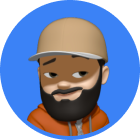
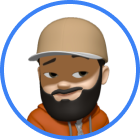
Ajustes Header

diff --git a/app/components/Header.tsx b/app/components/Header.tsx
@@ -1,6 +1,6 @@
 "use client";
 
-import { useState } from "react";
+import { useState, useEffect, useRef } from "react";
 import {
   Dialog,
   DialogPanel,
@@ -19,66 +19,88 @@ import {
   FingerPrintIcon,
   SquaresPlusIcon,
   XMarkIcon,
+  RectangleGroupIcon,
 } from "@heroicons/react/24/outline";
 import {
   ChevronDownIcon,
   PhoneIcon,
   PlayCircleIcon,
-  RectangleGroupIcon,
 } from "@heroicons/react/20/solid";
+import { Construction, Figma } from "lucide-react";
 
 const products = [
   {
-    name: "Analytics",
-    description: "Get a better understanding where your traffic is coming from",
+    name: "Templates",
+    description: "Landing Pages e Dashboards de alta qualidade para seu SAAS.",
     href: "#",
-    icon: ChartPieIcon,
+    icon: RectangleGroupIcon,
   },
   {
-    name: "Engagement",
-    description: "Speak directly to your customers with our engagement tool",
+    name: "UI Designs",
+    description: "Arquivos de design prontos para usar no seu próximo projeto",
     href: "#",
-    icon: CursorArrowRaysIcon,
+    icon: Figma,
   },
   {
-    name: "Security",
-    description: "Your customers’ data will be safe and secure",
+    name: "Icons",
+    description: "Em Breve",
     href: "#",
-    icon: FingerPrintIcon,
+    icon: Construction,
   },
-  {
-    name: "Integrations",
-    description: "Your customers’ data will be safe and secure",
-    href: "#",
-    icon: SquaresPlusIcon,
-  },
-];
-const callsToAction = [
-  { name: "Watch demo", href: "#", icon: PlayCircleIcon },
-  { name: "Contact sales", href: "#", icon: PhoneIcon },
-  { name: "View all products", href: "#", icon: RectangleGroupIcon },
 ];
 
 export default function Header() {
   const [mobileMenuOpen, setMobileMenuOpen] = useState(false);
+  const [isStoreOpen, setIsStoreOpen] = useState(false);
+  const storeMenuRef = useRef(null);
+
+  useEffect(() => {
+    const handleScroll = () => {
+      if (isStoreOpen) {
+        setIsStoreOpen(false);
+      }
+    };
+
+    const handleClickOutside = (event) => {
+      if (
+        storeMenuRef.current &&
+        !storeMenuRef.current.contains(event.target)
+      ) {
+        setIsStoreOpen(false);
+      }
+    };
+
+    window.addEventListener("scroll", handleScroll);
+    document.addEventListener("mousedown", handleClickOutside);
+
+    return () => {
+      window.removeEventListener("scroll", handleScroll);
+      document.removeEventListener("mousedown", handleClickOutside);
+    };
+  }, [isStoreOpen]);
 
   return (
-    <header className="fixed w-full bg-white border-b border-zinc-100 z-50">
+    <header className="fixed w-full bg-white border-b dark:bg-neutral-900 border-zinc-100 dark:border-zinc-800 z-50 ">
       <nav
         aria-label="Global"
         className="mx-auto flex max-w-7xl items-center justify-between p-6 lg:px-8"
       >
-        <div className="flex lg:flex-1">
+        <div className="flex lg:flex-1 items-center gap-2">
           <a href="/" className="-m-1.5 p-1.5">
-            <span className="sr-only">Luciano Silva</span>
-            <img alt="" src="/images/avatar-2.png" className="h-10 w-auto" />
+            <div className="flex items-center gap-2">
+              <span className="sr-only">Luciano Silva</span>
+              <img alt="" src="/images/avatar-2.png" className="h-10 w-auto" />
+              <span className="font-semibold dark:text-slate-200">
+                LUCIANO SILVA
+              </span>
+            </div>
           </a>
         </div>
         <div className="flex lg:hidden">
           <button
             type="button"
             onClick={() => setMobileMenuOpen(true)}
-            className="-m-2.5 inline-flex items-center justify-center rounded-md p-2.5 text-gray-700"
+            className="-m-2.5 inline-flex items-center justify-center rounded-md p-2.5 text-gray-700 dark:text-slate-200"
           >
             <span className="sr-only">Open main menu</span>
             <Bars3Icon aria-hidden="true" className="h-6 w-6" />
@@ -86,7 +108,10 @@ export default function Header() {
         </div>
         <PopoverGroup className="hidden lg:flex lg:gap-x-12">
           <Popover>
-            <PopoverButton className="flex items-center gap-x-1 text-sm font-semibold leading-6 text-gray-900">
+            <PopoverButton
+              className="flex items-center gap-x-1 text-sm font-semibold leading-6 text-gray-900 dark:text-slate-200"
+              onClick={() => setIsStoreOpen(!isStoreOpen)}
+            >
               Loja
               <ChevronDownIcon
                 aria-hidden="true"
@@ -95,63 +120,51 @@ export default function Header() {
             </PopoverButton>
 
             <PopoverPanel
-              transition
-              className="absolute inset-x-0 top-0 -z-10 bg-white pt-14 shadow-lg ring-1 ring-gray-900/5 transition data-[closed]:-translate-y-1 data-[closed]:opacity-0 data-[enter]:duration-200 data-[leave]:duration-150 data-[enter]:ease-out data-[leave]:ease-in"
+              ref={storeMenuRef}
+              static
+              className={`absolute inset-x-0 top-0 -z-10 bg-white dark:bg-neutral-900 pt-14 shadow-lg ring-1 ring-gray-900/5 transition ${
+                isStoreOpen
+                  ? "translate-y-0 opacity-100"
+                  : "-translate-y-1 opacity-0 pointer-events-none"
+              } duration-200 ease-out`}
             >
               <div className="mx-auto grid max-w-7xl grid-cols-4 gap-x-4 px-6 py-10 lg:px-8 xl:gap-x-8">
                 {products.map((item) => (
                   <div
                     key={item.name}
-                    className="group relative rounded-lg p-6 text-sm leading-6 hover:bg-gray-50"
+                    className="group relative rounded-lg p-6 text-sm leading-6 hover:bg-gray-50 dark:hover:bg-neutral-950"
                   >
-                    <div className="flex h-11 w-11 items-center justify-center rounded-lg bg-gray-50 group-hover:bg-white">
+                    <div className="flex h-11 w-11 items-center justify-center rounded-lg bg-gray-50 dark:bg-neutral-950 group-hover:bg-white dark:group-hover:bg-neutral-900">
                       <item.icon
                         aria-hidden="true"
-                        className="h-6 w-6 text-gray-600 group-hover:text-indigo-600"
+                        className="h-6 w-6 text-gray-600 dark:text-slate-200 group-hover:text-blue-500"
                       />
                     </div>
                     <a
                       href={item.href}
-                      className="mt-6 block font-semibold text-gray-900"
+                      className="mt-6 block font-semibold text-gray-900 dark:text-slate-200"
                     >
                       {item.name}
                       <span className="absolute inset-0" />
                     </a>
-                    <p className="mt-1 text-gray-600">{item.description}</p>
+                    <p className="mt-1 text-gray-600 dark:text-slate-200">
+                      {item.description}
+                    </p>
                   </div>
                 ))}
-              </div>
-              <div className="bg-gray-50">
-                <div className="mx-auto max-w-7xl px-6 lg:px-8">
-                  <div className="grid grid-cols-3 divide-x divide-gray-900/5 border-x border-gray-900/5">
-                    {callsToAction.map((item) => (
-                      <a
-                        key={item.name}
-                        href={item.href}
-                        className="flex items-center justify-center gap-x-2.5 p-3 text-sm font-semibold leading-6 text-gray-900 hover:bg-gray-100"
-                      >
-                        <item.icon
-                          aria-hidden="true"
-                          className="h-5 w-5 flex-none text-gray-400"
-                        />
-                        {item.name}
-                      </a>
-                    ))}
-                  </div>
-                </div>
               </div>
             </PopoverPanel>
           </Popover>
 
           <a
             href="/projetos"
-            className="text-sm font-semibold leading-6 text-gray-900"
+            className="text-sm font-semibold leading-6 text-gray-900 dark:text-slate-200"
           >
             Projetos
           </a>
           <a
             href="/#about"
-            className="text-sm font-semibold leading-6 text-gray-900"
+            className="text-sm font-semibold leading-6 text-gray-900 dark:text-slate-200"
           >
             Sobre
           </a>
@@ -160,10 +173,10 @@ export default function Header() {
       <Dialog
         open={mobileMenuOpen}
         onClose={setMobileMenuOpen}
-        className="lg:hidden"
+        className="lg:hidden "
       >
         <div className="fixed inset-0 z-10" />
-        <DialogPanel className="fixed inset-y-0 right-0 z-10 w-full overflow-y-auto bg-white px-6 py-6 sm:max-w-sm sm:ring-1 sm:ring-gray-900/10">
+        <DialogPanel className="fixed inset-y-0 right-0 z-10 w-full overflow-y-auto bg-white  px-6 py-6 sm:max-w-sm sm:ring-1 sm:ring-gray-900/10">
           <div className="flex items-center justify-between">
             <a href="#" className="-m-1.5 p-1.5">
               <span className="sr-only">Luciano Silva</span>
@@ -190,7 +203,7 @@ export default function Header() {
                     />
                   </DisclosureButton>
                   <DisclosurePanel className="mt-2 space-y-2">
-                    {[...products, ...callsToAction].map((item) => (
+                    {[...products].map((item) => (
                       <DisclosureButton
                         key={item.name}
                         as="a"

diff --git a/app/page.tsx b/app/page.tsx
@@ -21,7 +21,6 @@ export default function Home() {
       <AboutSection />
       <InfiniteMovingCardsSection />
       <ProjectsSection />
-      <Footer />
     </>
   );
 }
